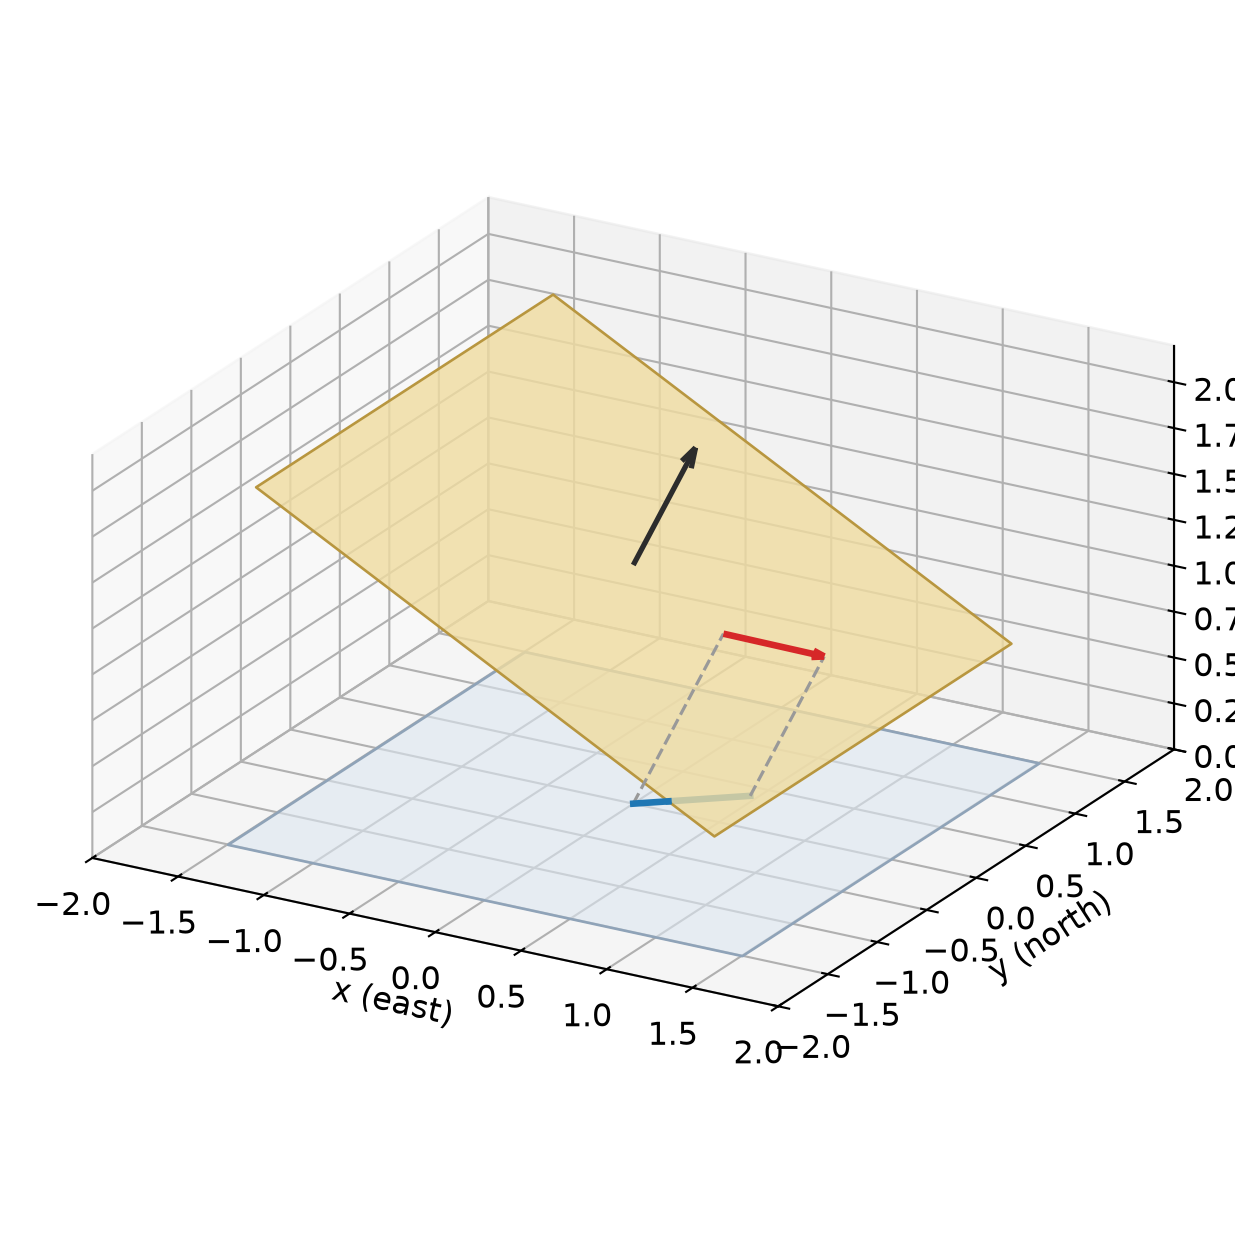
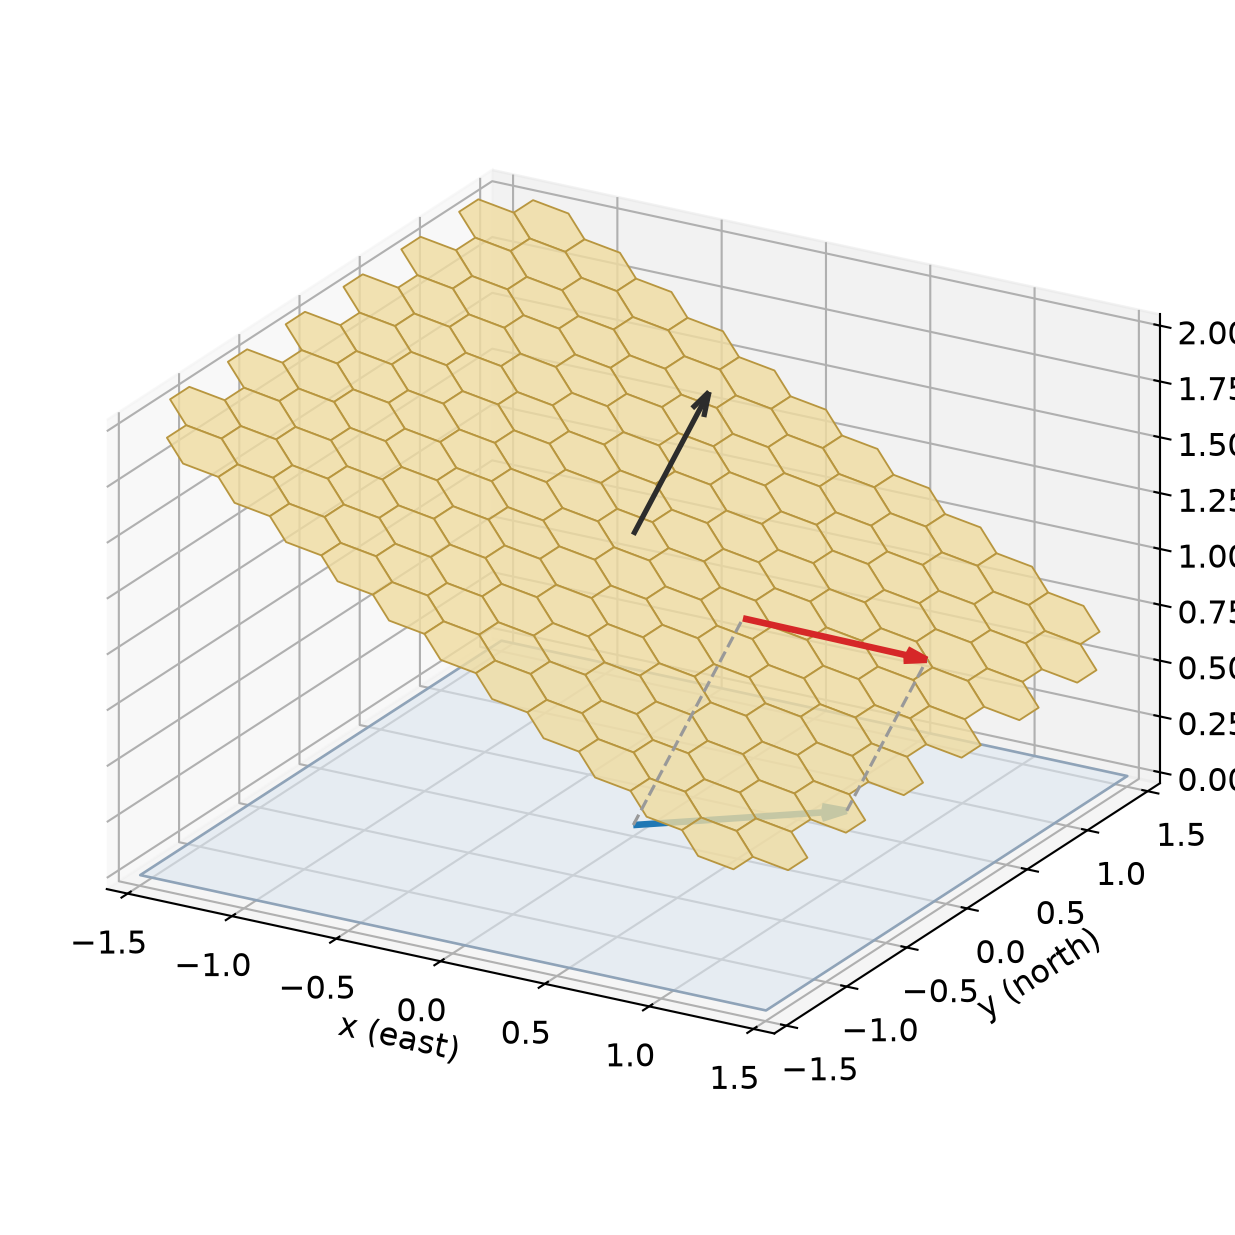
Texture the comb as hex cells and fix arrow/occlusion polish
- Swap the comb's plain square for a proper hexagonal-cell tile,
  same footprint.
- Always draw the food vector's arrowhead at the tip, even when the
  tip falls in the occluded run (previously it silently vanished).
- Tighten axis limits so the arrows read more prominently.
- Lengthen the food vector and its projection while keeping the
  projection comfortably inside the comb.
- Fix an occlusion-boundary mismatch: the hex tiling's true rendered
  extent is larger than SQUARE_SIZE (hex_centers_square pads by
  hex_radius, and each hex's own vertices extend further still), so
  the occlusion test was letting the arrow tip draw solid on top of
  comb cells that were actually there. The occlusion test now uses
  the tiling's true extent.

Changed region(s): [[0.0308, 0.1538, 1.0, 0.8923]]

diff --git a/experiments/illustrate_direct_projection.py b/experiments/illustrate_direct_projection.py
@@ -42,12 +42,20 @@ DEFAULT_OUTPUT = ROOT / "report" / "figures" / "direct_projection_sketch.png"
 TILT = 0.3  # gamma: theta = 27 degrees -- shallow, so the tilt reads clearly
 ORIENTATION = 0.0  # phi: comb tilts due east
 FOOD_AZIMUTH = 0.7  # d: an arbitrary food direction, in radians
-FOOD_LENGTH = 0.6  # shorter than SQUARE_SIZE so its projection stays in-bounds
+FOOD_LENGTH = 0.9  # long, but its projection (u~1.2, v~0.6) still clears SQUARE_SIZE
 SQUARE_SIZE = 1.5
 
 GROUND_OFFSET = np.array([0.0, 0.0, 0.0])
 COMB_OFFSET = np.array([0.0, 0.0, 1.3])
 ELEV, AZIM = 22.0, -60.0
+HEX_RADIUS = 0.16
+# hex_centers_square keeps any hex whose *center* is within half_size +
+# hex_radius, and each hex's own vertices then extend up to hex_radius
+# beyond its center -- so the tiling's true visual edge reaches roughly
+# SQUARE_SIZE + 2 * HEX_RADIUS, not SQUARE_SIZE. The occlusion test must use
+# that same true extent, or points just past SQUARE_SIZE get judged
+# "unoccluded" and drawn solid on top of comb tiles that are actually there.
+COMB_OCCLUSION_HALF_SIZE = SQUARE_SIZE + 2 * HEX_RADIUS
 
 GROUND_COLOR = "#dce6f0"
 GROUND_EDGE = "#8fa3b8"
@@ -74,6 +82,30 @@ def square_corners(u_axis, v_axis, size):
             u_axis * size - v_axis * size,
         ]
     )
+
+
+def hex_centers_square(half_size, hex_radius):
+    """Pointy-top hex centres tiling the square [-half_size, half_size]^2."""
+    dx = np.sqrt(3.0) * hex_radius
+    dy = 1.5 * hex_radius
+    rows = int(np.ceil(half_size / dy)) + 1
+    cols = int(np.ceil(half_size / dx)) + 1
+    centers = []
+    for j in range(-rows, rows + 1):
+        y = j * dy
+        if y < -half_size - hex_radius or y > half_size + hex_radius:
+            continue
+        x_offset = dx / 2.0 if j % 2 else 0.0
+        for i in range(-cols, cols + 1):
+            x = i * dx + x_offset
+            if -half_size - hex_radius <= x <= half_size + hex_radius:
+                centers.append((x, y))
+    return centers
+
+
+def hex_vertices(cx, cy, hex_radius):
+    angles = np.deg2rad([30, 90, 150, 210, 270, 330])
+    return [(cx + hex_radius * np.cos(a), cy + hex_radius * np.sin(a)) for a in angles]
 
 
 def camera_direction(elev_deg, azim_deg):
@@ -122,7 +154,7 @@ def draw_food_vector(ax, food_base, food_vec, normal, first, second):
     sample_t = np.linspace(0.0, 1.0, n_samples)
     sample_points = food_base + np.outer(sample_t, food_vec)
     occluded = np.array([
-        occluded_by_comb(p, cam_dir, COMB_OFFSET, normal, first, second, SQUARE_SIZE)
+        occluded_by_comb(p, cam_dir, COMB_OFFSET, normal, first, second, COMB_OCCLUSION_HALF_SIZE)
         for p in sample_points
     ])
 
@@ -134,20 +166,21 @@ def draw_food_vector(ax, food_base, food_vec, normal, first, second):
             p_start = food_base + t_start * food_vec
             p_end = food_base + t_end * food_vec
             is_last_run = i == n_samples
-            if occluded[run_start]:
-                ax.plot(*zip(p_start, p_end), color=FOOD_COLOR, linewidth=2.5, zorder=0.5)
-            elif is_last_run:
-                # This run reaches the tip, so it gets the arrowhead; keep the
-                # head size fixed regardless of how long this visible run is.
+            zorder = 0.5 if occluded[run_start] else 3
+            if is_last_run:
+                # This run reaches the tip, so it gets the arrowhead -- even
+                # if it's the occluded run, so the arrow always has one, just
+                # pale when hidden under the comb. Keep the head size fixed
+                # regardless of how long this run is.
                 seg_vec = p_end - p_start
                 seg_len = np.linalg.norm(seg_vec)
                 ratio = min(1.0, arrowhead_length / seg_len) if seg_len > 0 else 1.0
                 ax.quiver(
                     *p_start, *seg_vec, color=FOOD_COLOR, linewidth=2.5,
-                    arrow_length_ratio=ratio, zorder=3,
+                    arrow_length_ratio=ratio, zorder=zorder,
                 )
             else:
-                ax.plot(*zip(p_start, p_end), color=FOOD_COLOR, linewidth=2.5, zorder=3)
+                ax.plot(*zip(p_start, p_end), color=FOOD_COLOR, linewidth=2.5, zorder=zorder)
             run_start = i
 
 
@@ -163,8 +196,6 @@ def main() -> None:
     ground_corners = square_corners(
         np.array([1.0, 0.0, 0.0]), np.array([0.0, 1.0, 0.0]), SQUARE_SIZE
     ) + GROUND_OFFSET
-    # Plain symmetric square, centered on its own offset -- no hinging.
-    comb_corners = square_corners(first, second, SQUARE_SIZE) + COMB_OFFSET
 
     fig = plt.figure(figsize=(6.5, 6.5))
     ax = fig.add_subplot(1, 1, 1, projection="3d", computed_zorder=False)
@@ -176,9 +207,16 @@ def main() -> None:
     ground_poly.set_zorder(0)
     ax.add_collection3d(ground_poly)
 
+    # Comb: a hexagonal-cell tile, filling the same square footprint (still
+    # centered on its own offset, no hinging) that the occlusion test below
+    # uses as its boundary.
+    comb_hexes = [
+        [u * first + v * second + COMB_OFFSET for u, v in hex_vertices(cx, cy, HEX_RADIUS)]
+        for cx, cy in hex_centers_square(SQUARE_SIZE, HEX_RADIUS)
+    ]
     comb_poly = Poly3DCollection(
-        [comb_corners], facecolor=COMB_COLOR, edgecolor=COMB_EDGE,
-        linewidth=1.0, alpha=0.8,
+        comb_hexes, facecolor=COMB_COLOR, edgecolor=COMB_EDGE,
+        linewidth=0.7, alpha=0.8,
     )
     comb_poly.set_zorder(1)
     ax.add_collection3d(comb_poly)
@@ -217,9 +255,9 @@ def main() -> None:
         arrow_length_ratio=0.15, zorder=5,
     )
 
-    xlim = (-2.0, 2.0)
-    ylim = (-2.0, 2.0)
-    zlim = (0.0, 2.2)
+    xlim = (-1.6, 1.6)
+    ylim = (-1.6, 1.6)
+    zlim = (-0.05, 2.05)
     ax.set_xlim(*xlim)
     ax.set_ylim(*ylim)
     ax.set_zlim(*zlim)
